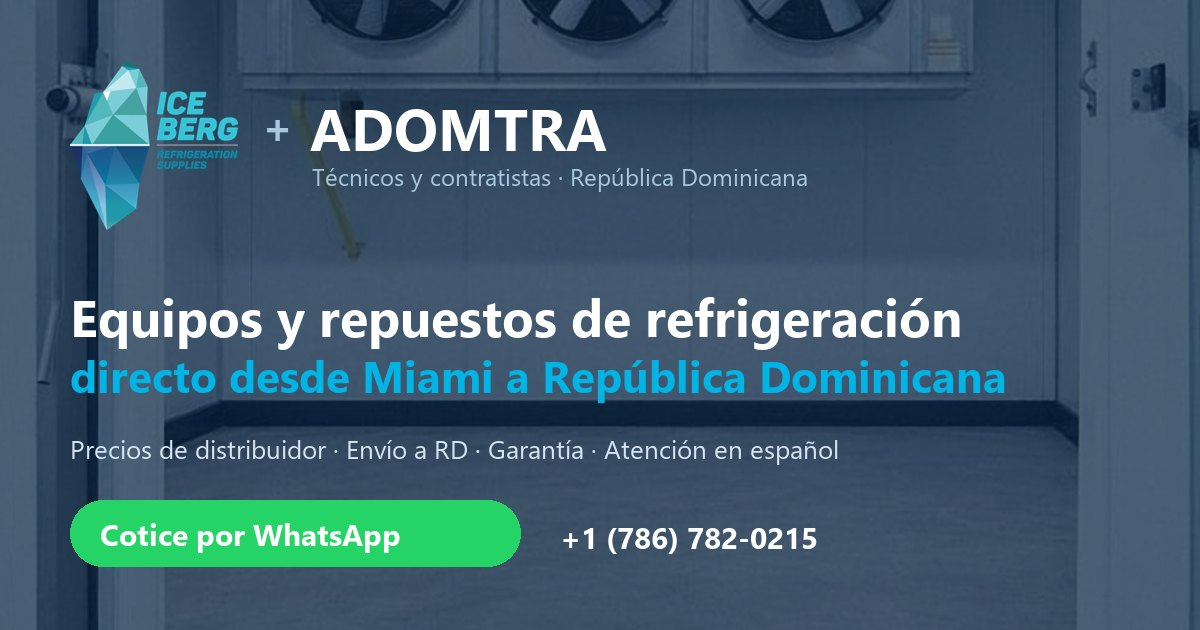
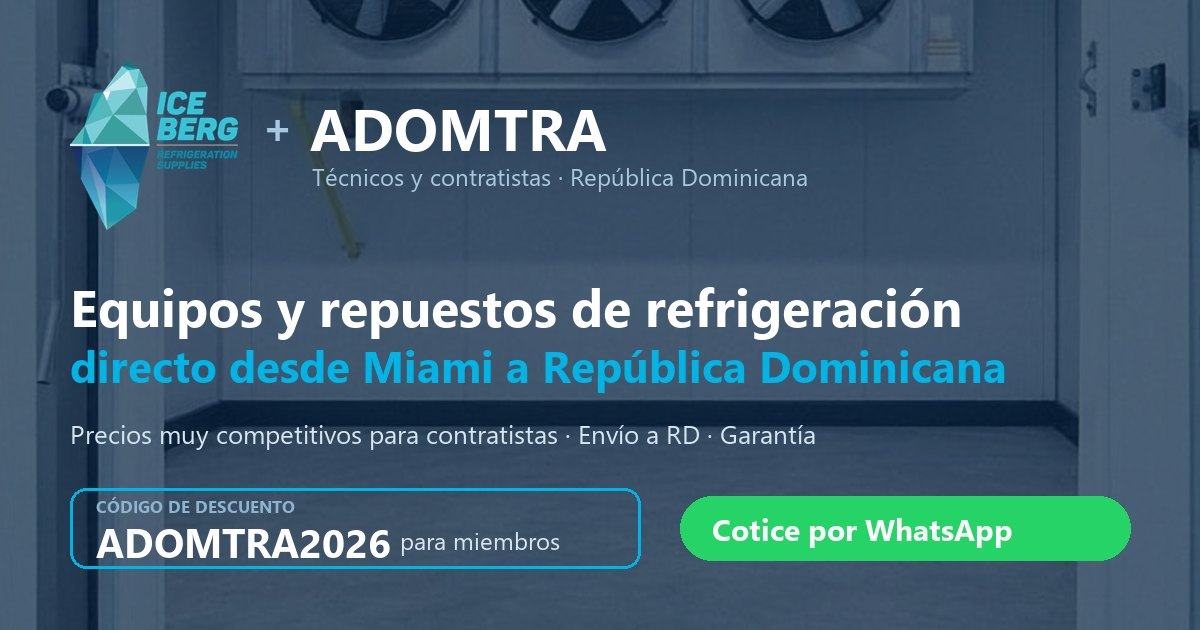
Precios competitivos para contratistas y código de descuento ADOMTRA2026

Changed region(s): [[0.0617, 0.4524, 0.8325, 0.6333], [0.0308, 0.754, 0.9558, 0.9048], [0.0617, 0.6635, 0.7092, 0.754]]

diff --git a/index.html b/index.html
@@ -14,21 +14,21 @@
 <title>Iceberg Refrigeration para técnicos y contratistas de ADOMTRA · República Dominicana</title>
 <meta name="description" content="Equipos y repuestos de refrigeración comercial e industrial para técnicos y contratistas de ADOMTRA en República Dominicana: unidades condensadoras, evaporadores, compresores, cuartos fríos, controles y refrigerantes, con envío a RD y atención en español. Cotice por WhatsApp.">
 <meta property="og:title" content="Iceberg Refrigeration · Para técnicos y contratistas de ADOMTRA">
-<meta property="og:description" content="Equipos y repuestos de refrigeración con envío a República Dominicana, precios de distribuidor y atención en español. Cotice por WhatsApp.">
+<meta property="og:description" content="Equipos y repuestos de refrigeración con envío a República Dominicana, precios muy competitivos para contratistas y descuento exclusivo para miembros de ADOMTRA con el código ADOMTRA2026.">
 <meta property="og:type" content="website">
 <meta property="og:site_name" content="Iceberg Refrigeration Supplies">
 <meta property="og:locale" content="es_DO">
 <link rel="canonical" href="https://adomtra.iceberg-refrigeration.com/">
 <meta property="og:url" content="https://adomtra.iceberg-refrigeration.com/">
 <!-- URL absoluta: garantiza la vista previa en WhatsApp, Facebook y LinkedIn. -->
-<meta property="og:image" content="https://adomtra.iceberg-refrigeration.com/assets/og-share.jpg?v=1">
+<meta property="og:image" content="https://adomtra.iceberg-refrigeration.com/assets/og-share.jpg?v=2">
 <meta property="og:image:width" content="1200">
 <meta property="og:image:height" content="630">
 <meta property="og:image:alt" content="Iceberg Refrigeration para técnicos y contratistas de ADOMTRA, República Dominicana">
 <meta name="twitter:card" content="summary_large_image">
 <meta name="twitter:title" content="Iceberg Refrigeration · Para técnicos y contratistas de ADOMTRA">
 <meta name="twitter:description" content="Equipos y repuestos de refrigeración con envío a República Dominicana y atención en español.">
-<meta name="twitter:image" content="https://adomtra.iceberg-refrigeration.com/assets/og-share.jpg?v=1">
+<meta name="twitter:image" content="https://adomtra.iceberg-refrigeration.com/assets/og-share.jpg?v=2">
 <link rel="icon" type="image/png" href="/assets/iceberg-mark.png?v=3">
 <link rel="preconnect" href="https://fonts.googleapis.com">
 <link rel="preconnect" href="https://fonts.gstatic.com" crossorigin>
@@ -741,6 +741,12 @@
   .q-hp{position:absolute;left:-9999px}
   .about-adomtra-box{display:flex;align-items:center;justify-content:center;min-height:120px}
   .about-adomtra-word{font-family:var(--font-display);font-weight:800;font-size:44px;letter-spacing:.05em;color:var(--navy)}
+  .promo-box{border:1.5px dashed rgba(0,180,230,.7);background:rgba(0,180,230,.10);border-radius:14px;padding:14px 16px;margin:0 0 18px;text-align:center}
+  .promo-label{display:block;font-size:11px;letter-spacing:.14em;text-transform:uppercase;color:#8fb4cf;font-weight:700;margin-bottom:6px}
+  .promo-copy{display:inline-flex;align-items:center;gap:8px;background:none;border:0;cursor:pointer;color:#fff;font:inherit;padding:2px 4px}
+  .promo-copy .promo-code{font-family:var(--font-display);font-weight:800;font-size:26px;letter-spacing:.08em}
+  .promo-copy .ico{width:18px;height:18px;color:#a9c8de}
+  .promo-box small{display:block;font-size:12.5px;color:#d5e6f2;margin-top:6px;line-height:1.4}
   @media (max-width:760px){
     .adomtra-facts{grid-template-columns:1fr}
   }
@@ -782,8 +788,8 @@
       <span class="eyebrow">Refrigeración comercial e industrial · Envío a RD</span>
       <h1>Los equipos para sus proyectos, <span class="hl">directo desde Miami a República Dominicana</span></h1>
       <p class="lede">Iceberg Refrigeration Supplies: su suplidor de refrigeración en Estados Unidos, con atención en español.</p>
-      <p class="sub">Unidades condensadoras, evaporadores, compresores, cuartos fríos, controles, refrigerantes y repuestos, a precio de distribuidor y con la logística de envío coordinada hasta República Dominicana.</p>
-      <p class="sub sub2">Envíenos su lista o los datos de su proyecto por WhatsApp y le respondemos con precio y disponibilidad.</p>
+      <p class="sub">Unidades condensadoras, evaporadores, compresores, cuartos fríos, controles, refrigerantes y repuestos, a precios muy competitivos para contratistas y con la logística de envío coordinada hasta República Dominicana.</p>
+      <p class="sub sub2">Envíenos su lista o los datos de su proyecto por WhatsApp y le respondemos con precio y disponibilidad. ¿Es miembro de ADOMTRA? Mencione el código <b>ADOMTRA2026</b> al cotizar y reciba un descuento exclusivo.</p>
       <div class="hero-cta">
         <a class="btn btn-wa" id="heroWa" data-wa="quote" target="_blank" rel="noopener">
           <svg viewBox="0 0 24 24"><use href="#i-wa"/></svg>
@@ -815,11 +821,16 @@
         <div class="hc-ev">Para miembros de ADOMTRA<span>Lo que Iceberg ofrece a la comunidad técnica dominicana</span></div>
       </div>
       <ul class="hc-list">
-        <li><span class="ck"><svg fill="none" stroke="currentColor" stroke-width="3"><use href="#i-check"/></svg></span><span><b>Precios de distribuidor</b> en equipos y repuestos</span></li>
+        <li><span class="ck"><svg fill="none" stroke="currentColor" stroke-width="3"><use href="#i-check"/></svg></span><span><b>Precios muy competitivos</b> para contratistas en equipos y repuestos</span></li>
         <li><span class="ck"><svg fill="none" stroke="currentColor" stroke-width="3"><use href="#i-check"/></svg></span><span><b>Envío coordinado</b> a Santo Domingo y todo el país</span></li>
         <li><span class="ck"><svg fill="none" stroke="currentColor" stroke-width="3"><use href="#i-check"/></svg></span><span><b>Selección y dimensionamiento</b> de equipos para cada proyecto</span></li>
         <li><span class="ck"><svg fill="none" stroke="currentColor" stroke-width="3"><use href="#i-check"/></svg></span><span><b>Atención en español</b> por WhatsApp, teléfono y correo</span></li>
       </ul>
+      <div class="promo-box">
+        <span class="promo-label">Código exclusivo para miembros</span>
+        <button type="button" class="promo-copy" title="Copiar código"><span class="promo-code">ADOMTRA2026</span><svg class="ico" aria-hidden="true"><use href="#i-copy"/></svg></button>
+        <small>Menciónelo al cotizar su proyecto y reciba un descuento exclusivo para contratistas de ADOMTRA.</small>
+      </div>
       <div class="hc-cta">
         <a class="btn btn-wa" data-wa="default" target="_blank" rel="noopener"><svg viewBox="0 0 24 24"><use href="#i-wa"/></svg><span>Escríbanos por WhatsApp</span></a>
       </div>
@@ -946,8 +957,8 @@
     <div class="why-grid">
       <div class="feature">
         <div class="ic"><svg viewBox="0 0 24 24" fill="none" stroke="currentColor" stroke-width="2" stroke-linecap="round"><path d="M12 1v22M17 5H9.5a3.5 3.5 0 000 7h5a3.5 3.5 0 010 7H6"/></svg></div>
-        <h3>Precios de distribuidor</h3>
-        <p>Nuestra relación de años con los fabricantes nos permite ofrecer los mejores precios del mercado para esta calidad.</p>
+        <h3>Precios muy competitivos para contratistas</h3>
+        <p>Nuestra relación de años con los fabricantes nos permite ofrecer precios muy competitivos. Con el código <b>ADOMTRA2026</b>, los miembros reciben además un descuento exclusivo.</p>
       </div>
       <div class="feature">
         <div class="ic"><svg class="ico" aria-hidden="true"><use href="#i-truck"/></svg></div>
@@ -980,12 +991,12 @@
       <div class="feature">
         <span class="step-n">1</span>
         <h3>Envíe su lista o proyecto</h3>
-        <p>Por WhatsApp o el formulario: modelos, medidas del cuarto, temperatura o una foto de la placa del equipo actual.</p>
+        <p>Por WhatsApp o el formulario: modelos, medidas del cuarto, temperatura o una foto de la placa del equipo actual. Mencione el código <b>ADOMTRA2026</b>.</p>
       </div>
       <div class="feature">
         <span class="step-n">2</span>
         <h3>Le dimensionamos y cotizamos</h3>
-        <p>Seleccionamos el equipo según la aplicación y le enviamos una cotización completa con precio y disponibilidad.</p>
+        <p>Seleccionamos el equipo según la aplicación y le enviamos una cotización completa, con su descuento de miembro ADOMTRA aplicado.</p>
       </div>
       <div class="feature">
         <span class="step-n">3</span>
@@ -1207,7 +1218,7 @@
       </div>
       <div class="log-cta">
         <h3>Cotice hoy</h3>
-        <p>Mándenos su lista por WhatsApp y le respondemos con precio, disponibilidad y opciones de envío a República Dominicana.</p>
+        <p>Mándenos su lista por WhatsApp y le respondemos con precio, disponibilidad y opciones de envío a República Dominicana. No olvide mencionar el código <b>ADOMTRA2026</b> para su descuento exclusivo.</p>
         <a class="btn btn-wa" id="logWa" data-wa="quote" target="_blank" rel="noopener">
           <svg viewBox="0 0 24 24"><use href="#i-wa"/></svg>
           <span>WhatsApp</span>
@@ -1244,6 +1255,7 @@
           <div class="field"><label for="qEmail" class="req">Correo electrónico</label><input id="qEmail" name="correo" type="email" required autocomplete="email" maxlength="120"></div>
           <div class="field"><label for="qPhone" class="req">WhatsApp / teléfono</label><input id="qPhone" name="telefono" type="tel" required autocomplete="tel" maxlength="40" placeholder="+1 (809) ..."></div>
         </div>
+        <div class="field"><label for="qCode">Código de descuento</label><input id="qCode" name="codigo_descuento" value="ADOMTRA2026" maxlength="40" autocomplete="off"><small class="q-hint">Código exclusivo para contratistas miembros de ADOMTRA.</small></div>
         <div class="field"><label for="qMember">¿Es miembro de ADOMTRA?</label>
           <select id="qMember" name="miembro_adomtra">
             <option value="Sí">Sí, soy miembro</option>
@@ -1332,7 +1344,7 @@
 </a>
 
 <!-- Sube el ?v= de config.js cada vez que lo edites para que el navegador no use una copia vieja. -->
-<script src="/config.js?v=20261104a"></script>
+<script src="/config.js?v=20261104b"></script>
 <script>
 /* ==========================================================================
    Toda la configuración editable vive en config.js (window.ICEBERG_CONFIG).
@@ -1456,7 +1468,7 @@ const ES_TACTIL_PEQUENA = ES_TACTIL &&
     const v=id=>(document.getElementById(id).value||"").trim();
     const noAmp=x=>x.replace(/&/g,"y");  // Netlify muestra "&" como "&amp;" en el asunto
     document.getElementById("qSubject").value=noAmp("Cotización ADOMTRA: "+v("qFirst")+" "+v("qLast")+
-      (v("qCompany")?" ("+v("qCompany")+")":"")+(v("qCity")?" · "+v("qCity"):""));
+      (v("qCompany")?" ("+v("qCompany")+")":"")+(v("qCity")?" · "+v("qCity"):"")+(v("qCode")?" · Código "+v("qCode"):""));
     const label=send.innerHTML; send.disabled=true; send.textContent=MSG.sending;
     try{
       const res=await fetch("/",{method:"POST",body:new FormData(form)});
@@ -1524,6 +1536,15 @@ document.querySelectorAll(".email-open").forEach(a=>{
   a.addEventListener("click",e=>{
     e.preventDefault();
     openMail({to:a.dataset.email, subject:a.dataset.subject||""});
+  });
+});
+
+/* ---------- Copiar el código de descuento ---------- */
+document.querySelectorAll(".promo-copy").forEach(b=>{
+  b.addEventListener("click",()=>{
+    const code=b.querySelector(".promo-code"); const txt=code.textContent;
+    try{ navigator.clipboard.writeText(txt); }catch(e){}
+    code.textContent="✓ Copiado"; setTimeout(()=>code.textContent=txt,1400);
   });
 });
 

diff --git a/config.js b/config.js
@@ -18,13 +18,13 @@ window.ICEBERG_CONFIG = {
      tiene que enviarlo. Edítalos libremente. */
   waMessages: {
     // Botones generales (hero, pie de página, botón flotante)
-    default: "Hola Iceberg, soy técnico/contratista de ADOMTRA en República Dominicana y me gustaría hablar con su equipo sobre equipos de refrigeración.",
+    default: "Hola Iceberg, soy técnico/contratista de ADOMTRA en República Dominicana y me gustaría hablar con su equipo sobre equipos de refrigeración. Código: ADOMTRA2026",
     // Botón "Cotizar por WhatsApp"
-    quote:   "Hola Iceberg, soy de ADOMTRA (República Dominicana) y quiero cotizar equipos de refrigeración. Esta es mi lista:",
+    quote:   "Hola Iceberg, soy de ADOMTRA (República Dominicana) y quiero cotizar equipos de refrigeración. Código: ADOMTRA2026. Esta es mi lista:",
     // Botón "Repuestos"
-    parts:   "Hola Iceberg, soy de ADOMTRA (República Dominicana) y necesito repuestos de refrigeración. Esto es lo que busco:",
+    parts:   "Hola Iceberg, soy de ADOMTRA (República Dominicana) y necesito repuestos de refrigeración. Código: ADOMTRA2026. Esto es lo que busco:",
     // Botón "Tengo un proyecto"
-    project: "Hola Iceberg, soy de ADOMTRA y tengo un proyecto de refrigeración o cuarto frío en República Dominicana. Se los cuento:",
+    project: "Hola Iceberg, soy de ADOMTRA y tengo un proyecto de refrigeración o cuarto frío en República Dominicana. Código: ADOMTRA2026. Se los cuento:",
     // Botón para agendar una llamada
     meet:    "Hola Iceberg, soy de ADOMTRA (República Dominicana) y me gustaría agendar una llamada o videollamada con su equipo."
   },

diff --git a/privacidad.html b/privacidad.html
@@ -28,13 +28,13 @@
 <meta property="og:url" content="https://adomtra.iceberg-refrigeration.com/privacidad">
 <meta property="og:title" content="Política de privacidad · Iceberg Refrigeration Supplies">
 <meta property="og:description" content="Cómo Iceberg Refrigeration Supplies recolecta, usa y protege tu información.">
-<meta property="og:image" content="https://adomtra.iceberg-refrigeration.com/assets/og-share.jpg?v=1">
+<meta property="og:image" content="https://adomtra.iceberg-refrigeration.com/assets/og-share.jpg?v=2">
 <meta property="og:image:width" content="1200">
 <meta property="og:image:height" content="630">
 <meta name="twitter:card" content="summary_large_image">
 <meta name="twitter:title" content="Política de privacidad · Iceberg Refrigeration Supplies">
 <meta name="twitter:description" content="Cómo Iceberg Refrigeration Supplies recolecta, usa y protege tu información.">
-<meta name="twitter:image" content="https://adomtra.iceberg-refrigeration.com/assets/og-share.jpg?v=1">
+<meta name="twitter:image" content="https://adomtra.iceberg-refrigeration.com/assets/og-share.jpg?v=2">
 <link rel="canonical" href="https://adomtra.iceberg-refrigeration.com/privacidad">
 <link rel="icon" type="image/png" href="/assets/iceberg-mark.png?v=3">
 <link rel="preconnect" href="https://fonts.googleapis.com">
